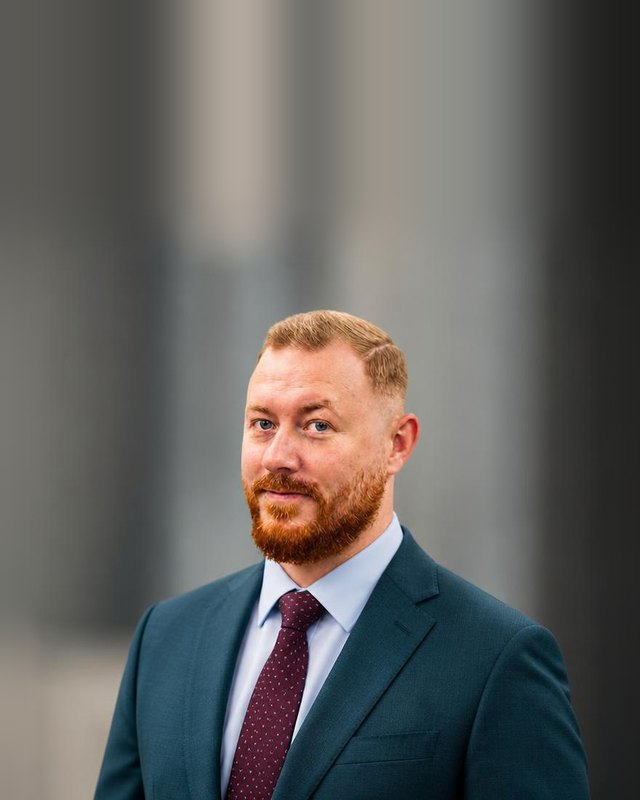
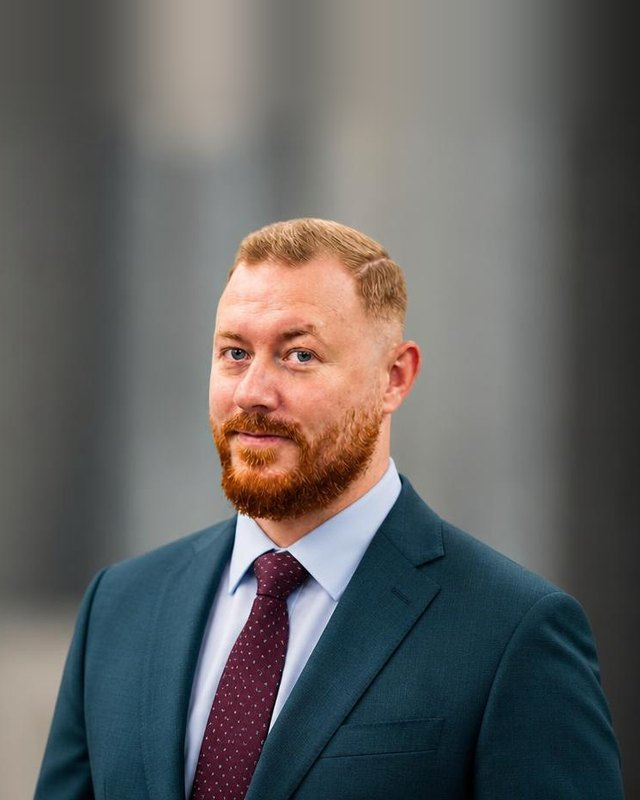
Homepage: tighter headshot crop, drop trust strip and how-it-works section
Claude-Session: https://claude.ai/code/session_013U8k5bxu5vjGJ9KAa8WUFE

diff --git a/index.html b/index.html
@@ -29,7 +29,6 @@
 <div class="actions"><a class="btn" href="/contact/">Book a consultation</a><a class="textlink" href="#services">Our services</a></div></div>
 <figure class="portrait"><div class="portrait-frame"><img src="/assets/headshot.jpg" alt="Alek Koldal, EA" width="420" height="520" onerror="this.remove()"><span class="portrait-ph" aria-hidden="true">AK</span></div>
 <figcaption><strong>Alek Koldal, EA</strong><span>IRS Enrolled Agent · Founder</span></figcaption></figure></div></div>
-<div class="trust"><div class="wrap"><ul><li>IRS Enrolled Agent</li><li>5.0 on Google</li><li>QuickBooks Online</li><li>Fully insured</li></ul></div></div>
 <section id="services"><div class="wrap"><p class="eyebrow">Services</p><h2>Everything in one place</h2>
 <div class="pillars"><a class="pillar" href="/bookkeeping/"><span class="pillar-k">Bookkeeping</span><h3>Monthly QuickBooks Online bookkeeping</h3><p>Reconciled accounts and clear monthly reports, plus cleanup, catch-up and Gusto payroll.</p><span class="pillar-f">From $300/month</span></a><a class="pillar" href="/tax/"><span class="pillar-k">Tax preparation</span><h3>Individual &amp; business returns</h3><p>Returns for individuals, partnerships, S and C corporations, trusts and estates, including prior years.</p><span class="pillar-f">1040s from $650</span></a><a class="pillar" href="/advisory/"><span class="pillar-k">Tax planning</span><h3>Planning &amp; advisory</h3><p>Year-end planning, quarterly estimates and advice on business structure, like S corporation elections.</p><span class="pillar-f">Quoted for your situation</span></a><a class="pillar" href="/services/irs-notice-help/"><span class="pillar-k">IRS help</span><h3>Notices &amp; representation</h3><p>IRS letters, payment plans, audits by mail and penalty relief, handled by your Enrolled Agent.</p><span class="pillar-f">Free notice review</span></a></div></div></section>
 <section class="band-dark"><div class="wrap split"><div><p class="eyebrow">Why an Enrolled Agent</p>
@@ -40,10 +39,6 @@
 <section class="reviews"><div class="wrap"><p class="eyebrow">Reviews</p><h2>5.0 on Google</h2>
 <div class="quotes"><figure class="quote"><div class="stars" aria-label="5 out of 5 stars">★★★★★</div><blockquote>Alexander is extremely responsive to his clients questions and needs. I am always confident in his guidance and tax preparation. I highly recommend his services.</blockquote><figcaption>Jared Gross · Google review</figcaption></figure><figure class="quote"><div class="stars" aria-label="5 out of 5 stars">★★★★★</div><blockquote>Had a great experience. Alek is very knowledgeable and explain everything throughly. He made this stressful process very smooth. Definitely recommend to anyone.</blockquote><figcaption>Sandra Lainez · Google review</figcaption></figure><figure class="quote"><div class="stars" aria-label="5 out of 5 stars">★★★★★</div><blockquote>Very responsive and walked me through everything I needed to get everything filed for my business.</blockquote><figcaption>Armando Cardozo · Google review</figcaption></figure></div>
 <p style="margin-top:28px"><a class="textlink" href="https://g.page/r/CTKng70qwgj_EBM/review" rel="noopener">Read all reviews on Google</a></p></div></section>
-<section><div class="wrap"><p class="eyebrow">How it works</p><h2>Simple from the first call</h2>
-<ol class="steps"><li><h3>Consultation</h3><p>Tell me what you need. It&#39;s free.</p></li>
-<li><h3>Clear quote</h3><p>A plan and a price before any work starts.</p></li>
-<li><h3>Ongoing support</h3><p>Books, returns and planning handled all year.</p></li></ol></div></section>
 <section><div class="wrap"><div class="cta"><div><h2>Let&#39;s talk about what you need.</h2><p>The first consultation is free.</p></div><a class="btn" href="/contact/">Book a consultation</a></div></div></section>
 </main>
 <footer><div class="wrap">

diff --git a/tools/build.py b/tools/build.py
@@ -202,7 +202,6 @@ pages = {
 <p>Bookkeeping, tax preparation, planning and IRS help for small businesses and individuals, led by an Enrolled Agent.</p>
 <div class="actions"><a class="btn" href="/contact/">Book a consultation</a><a class="textlink" href="#services">Our services</a></div></div>
 {PORTRAIT}</div></div>
-<div class="trust"><div class="wrap"><ul><li>IRS Enrolled Agent</li><li>5.0 on Google</li><li>QuickBooks Online</li><li>Fully insured</li></ul></div></div>
 <section id="services"><div class="wrap"><p class="eyebrow">Services</p><h2>Everything in one place</h2>
 <div class="pillars">{"".join(f'<a class="pillar" href="{u}"><span class="pillar-k">{k}</span><h3>{t}</h3><p>{d}</p><span class="pillar-f">{f}</span></a>' for k, t, d, f, u in PILLARS)}</div></div></section>
 <section class="band-dark"><div class="wrap split"><div><p class="eyebrow">Why an Enrolled Agent</p>
@@ -211,10 +210,6 @@ pages = {
 <li><strong>One firm</strong><span>Books, returns and IRS letters handled under one roof, with an Enrolled Agent on every tax question.</span></li>
 <li><strong>Local</strong><span>Based in Coral Springs. We work remotely and are happy to meet over coffee anywhere in South Florida.</span></li></ul></div></section>
 {REVIEWS}
-<section><div class="wrap"><p class="eyebrow">How it works</p><h2>Simple from the first call</h2>
-<ol class="steps"><li><h3>Consultation</h3><p>Tell me what you need. It&#39;s free.</p></li>
-<li><h3>Clear quote</h3><p>A plan and a price before any work starts.</p></li>
-<li><h3>Ongoing support</h3><p>Books, returns and planning handled all year.</p></li></ol></div></section>
 {CTA}"""),
 "bookkeeping/index.html": page("/bookkeeping/", "QuickBooks Online Bookkeeping in Coral Springs, FL | Koldal Tax &amp; Advisory",
  "Monthly QuickBooks Online bookkeeping, cleanup and catch-up, and payroll with Gusto for small businesses in Coral Springs and South Florida. From $300 a month.",
